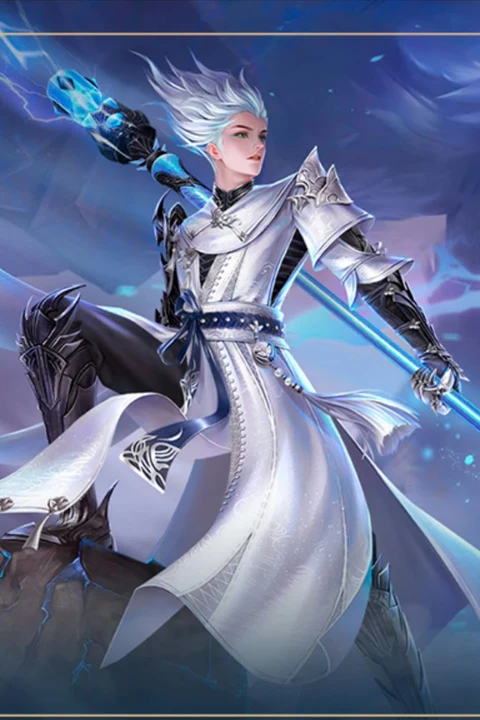
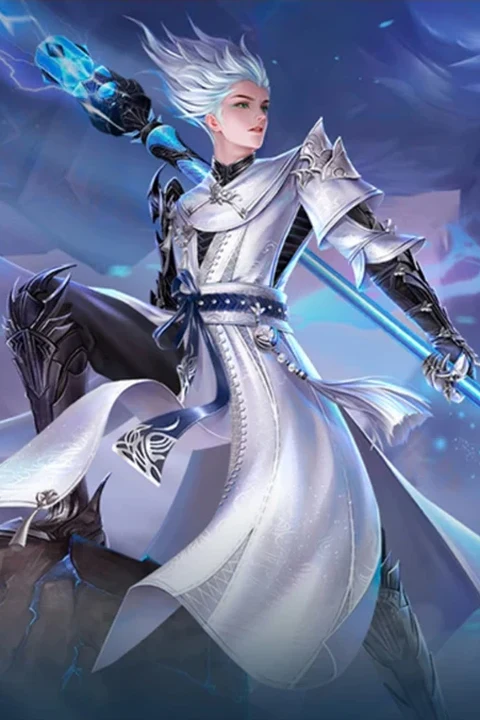
Apara a moldura da captura que oito das artes verticais traziam
As dezassete artes foram recortadas a mao de capturas de telemovel 946x2049, e
oito delas levaram uma faixa da captura junto. A do Guerreiro era a pior: 74 px
no fundo, um decimo do cartao, com duas miniaturas de outra coisa qualquer. O
Ceifador e o Mago tem a mesma coisa em menor; o Andarilho e o Arqueiro trazem a
barra preta do topo do ecra.

Esteve invisivel enquanto a arte so aparecia nos Destaques da home, porque o veu
desses cartoes esta no seu mais escuro exactamente onde a faixa fica. As portas
do seletor poem a mesma arte num cartao de rodape mais curto, e a costura do
Guerreiro saltou na primeira captura -- um veu que esconde um defeito nao e um
veu que o corrigiu.

As faixas foram encontradas medindo e nao a olho: a diferenca media entre linhas
vizinhas corre a tres ou sete unidades dentro de pintura verdadeira e salta
acima de 90 numa costura. `tool/artes/aparar.py` guarda essa varredura ao lado
dos limites, para que uma arte nova seja conferida do mesmo modo em vez de ser
acreditada.

Cada imagem fica recortada as suas linhas limpas, depois a maior janela 2:3
centrada nelas, e so entao de volta a 480x720 -- a forma a que todo cartao do
site as corta. Deixar o ficheiro curto renderizaria igual sob `BoxFit.cover`,
portanto a unica coisa que ganharia era poder discordar do que o ecra mostra.

Claude-Session: https://claude.ai/code/session_01NuqiZoTWSzjPgE58x5a9e2

diff --git a/tool/artes/aparar.py b/tool/artes/aparar.py
@@ -1,0 +1,109 @@
+"""Trims the screenshot frame off the vertical class art.
+
+The seventeen 480x720 crops in `assets/images/classes-verticais/` were cut by
+hand out of 946x2049 phone screenshots, and eight of them took a band of the
+screenshot with them: a black bar from the top of the capture, or — worse — a
+strip of whatever sat *below* the artwork on that page. The Guerreiro's was
+74 px tall, a tenth of the card, holding two unrelated thumbnails; the Ceifador
+and the Mago carry smaller versions of the same thing.
+
+It was invisible for as long as the art only ever appeared on the home's
+Destaques cards, because their veil is at its darkest exactly where the band
+sits. The chooser's doors put the same art on a card with a shorter footer, and
+the Guerreiro's seam showed on the first screenshot — which is the lesson worth
+keeping: a veil that hides a defect is not a veil that fixed it.
+
+The bands were found by measuring, not by eye: the mean row-to-row difference
+down each image is a flat few units through real artwork and spikes above 90
+at a stitch. `encontrar_costuras()` is that scan, kept here so a new art can be
+checked the same way instead of trusted.
+
+Each image is cropped to its clean rows, then to the widest 2:3 window centred
+in them, then resized back to 480x720 — the shape every card on the site cuts
+these to. Making the file 2:3 rather than leaving it short is deliberate: a
+short file renders identically under `BoxFit.cover`, so the only thing the
+asset would gain by staying short is the ability to disagree with what the
+screen shows.
+
+Run: python3 tool/artes/aparar.py
+"""
+
+import pathlib
+import statistics
+
+from PIL import Image
+
+PASTA = pathlib.Path("assets/images/classes-verticais")
+LADO = (480, 720)
+
+# First and last clean row of each image that needed one, read off the scan
+# below. A class absent from here was measured and found clean.
+LIMPO = {
+    "andarilho": (36, 713),
+    "arqueiro": (12, 720),
+    "bardo": (0, 718),
+    "ceifador": (0, 691),
+    "feiticeira": (2, 720),
+    "guerreiro": (0, 646),
+    "mago": (0, 694),
+    "retalhador": (0, 718),
+}
+
+
+def encontrar_costuras(imagem):
+    """Rows where the picture changes abruptly enough to be a stitch.
+
+    Returns `(mediana, [(linha, salto)])`. A real painting runs at a median of
+    three to seven; a stitched-in strip of another screenshot lands at 90+.
+    """
+    largura, altura = imagem.size
+    px = imagem.load()
+    saltos = []
+    for y in range(1, altura):
+        soma = 0
+        for x in range(0, largura, 4):
+            a, b = px[x, y - 1], px[x, y]
+            soma += abs(a[0] - b[0]) + abs(a[1] - b[1]) + abs(a[2] - b[2])
+        saltos.append((soma / (largura / 4) / 3, y))
+    mediana = statistics.median(s for s, _ in saltos)
+    limiar = max(40, mediana * 8)
+    return mediana, [(y, round(s, 1)) for s, y in saltos if s > limiar]
+
+
+def aparar(caminho, topo, base):
+    """Crops to the clean rows, then to a centred 2:3 window, then to 480x720."""
+    imagem = Image.open(caminho).convert("RGB")
+    largura, _ = imagem.size
+    imagem = imagem.crop((0, topo, largura, base))
+    altura = base - topo
+
+    # The widest 2:3 window the clean rows can hold. Centred horizontally
+    # because nothing here says where the figure is, and every one of these
+    # crops was framed on its subject to begin with.
+    alvo = round(altura * LADO[0] / LADO[1])
+    if alvo < largura:
+        margem = (largura - alvo) // 2
+        imagem = imagem.crop((margem, 0, margem + alvo, altura))
+    else:
+        alvo = round(largura * LADO[1] / LADO[0])
+        margem = (altura - alvo) // 2
+        imagem = imagem.crop((0, margem, largura, margem + alvo))
+
+    imagem.resize(LADO, Image.LANCZOS).save(caminho, "WEBP", quality=88)
+
+
+def main():
+    for nome, (topo, base) in sorted(LIMPO.items()):
+        caminho = PASTA / f"{nome}.webp"
+        aparar(caminho, topo, base)
+        print(f"{nome}: linhas {topo}-{base} mantidas")
+
+    print()
+    for caminho in sorted(PASTA.glob("*.webp")):
+        mediana, costuras = encontrar_costuras(Image.open(caminho).convert("RGB"))
+        estado = costuras if costuras else "limpa"
+        print(f"{caminho.stem}: mediana {mediana:.2f} · {estado}")
+
+
+if __name__ == "__main__":
+    main()
